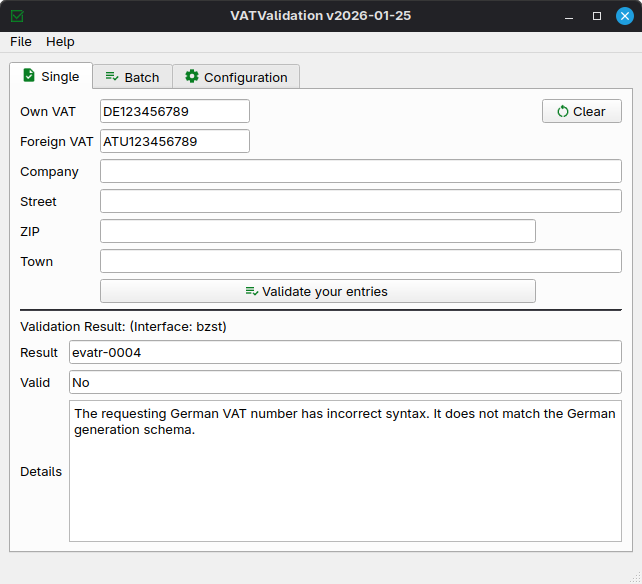
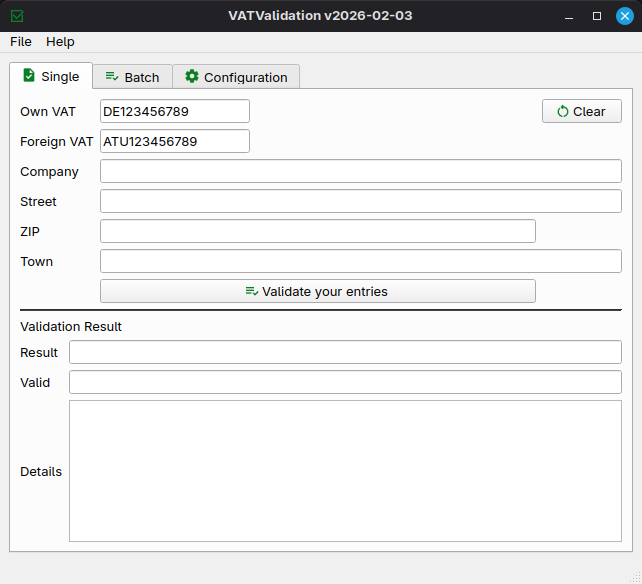
#137 Implement GUI test

diff --git a/test/test_gui.py b/test/test_gui.py
@@ -1,0 +1,127 @@
+import pytest
+from PySide6.QtWidgets import QApplication,QMessageBox
+from PySide6.QtCore import Qt, QTimer
+from PySide6.QtGui import QScreen
+from PIL import ImageGrab
+import sys
+import os
+import json
+
+
+sys.path.insert(0, os.path.join(os.path.dirname(__file__), '..', 'src'))
+
+from vatvalidation import VATValidationFrame
+
+
+def take_screenshot(app, filename):
+    """Take screenshot of widget content"""
+
+    screenshot = app.grab()
+    screenshot.save(filename)
+    print(f"Widget screenshot saved to {filename}")
+
+
+def take_full_screenshot(app, filename):
+    """Take screenshot of active window only using PIL"""
+    # Get window geometry
+    geometry = app.frameGeometry()
+    
+    screenshot = ImageGrab.grab(bbox=(
+        geometry.x(),
+        geometry.y(),
+        geometry.x() + geometry.width(),
+        geometry.y() + geometry.height()
+    ))
+    screenshot.save(filename)
+    print(f"App screenshot saved to {filename}")
+
+
+@pytest.fixture
+def app(qtbot, tmp_path, monkeypatch):
+    """Create application instance"""
+    # Create temporary config file
+    config_file = tmp_path / "config.json"
+    config_data = {
+        "ownvat": "DE123456789",
+        "interface": "bzst",
+        "language": "en",
+        "delimiter": ";",
+        "logfilename": "",
+        "loglevel": "ERROR",
+        "theme": "light"
+    }
+    config_file.write_text(json.dumps(config_data))
+
+    # create screenshots folder, if not exists
+    if not os.path.exists("test/screenshots"):
+        os.makedirs("test/screenshots")
+    
+    # Mock settings to use temp config
+    monkeypatch.setattr("settings.CONFIGFILE", str(config_file))
+    
+    test_app = VATValidationFrame()
+    qtbot.addWidget(test_app)
+    yield test_app
+    test_app.close()
+
+
+def test_single_tab(app, qtbot, monkeypatch):
+    """Test single validation tab"""
+    app.show()
+    qtbot.waitExposed(app)
+    
+    # Switch to single tab
+    app.tab_widget.setCurrentIndex(0)
+    
+    # Fill in values
+    app.textOwnvat.setText("DE123456789")
+    app.textForeignvat.setText("ATU123456789")
+    qtbot.wait(200)
+
+    monkeypatch.setattr(QMessageBox, "information", lambda *args, **kwargs: QMessageBox.Ok)
+    qtbot.mouseClick(app.buttonValidateSingle, Qt.LeftButton, delay=1)
+    
+    take_screenshot(app, "test/screenshots/single_tab.png")
+    take_full_screenshot(app, "docs/docs/assets/single.png")
+    
+    assert app.tab_widget.currentIndex() == 0
+
+
+def test_batch_tab(app, qtbot):
+    """Test batch processing tab"""
+    app.show()
+    qtbot.waitExposed(app)
+    
+    # Switch to batch tab
+    app.tab_widget.setCurrentIndex(1)
+    
+    # Fill in file paths
+    app.textInputFile.setText("/home/dseichter/testdata/vat/ustid-30.csv")
+    app.textOutputFile.setText("/home/dseichter/testdata/vat/ustid-30-log.csv")
+    qtbot.wait(200)
+    
+    take_screenshot(app, "test/screenshots/batch_tab.png")
+    take_full_screenshot(app, "docs/docs/assets/batch.png")
+    
+    assert app.tab_widget.currentIndex() == 1
+
+
+def test_config_tab(app, qtbot):
+    """Test configuration tab"""
+    app.show()
+    qtbot.waitExposed(app)
+    
+    # Switch to config tab
+    app.tab_widget.setCurrentIndex(2)
+    
+    # Fill in config values
+    app.textCtrlConfigOwnVat.setText("DE123456789")
+    app.comboBoxConfigInterface.setCurrentText("vies")
+    app.comboBoxConfigLanguage.setCurrentText("en")
+    app.textConfigCSVdelimiter.setText(";")
+    qtbot.wait(200)
+    
+    take_screenshot(app, "test/screenshots/config_tab.png")
+    take_full_screenshot(app, "docs/docs/assets/config.png")
+    
+    assert app.tab_widget.currentIndex() == 2
